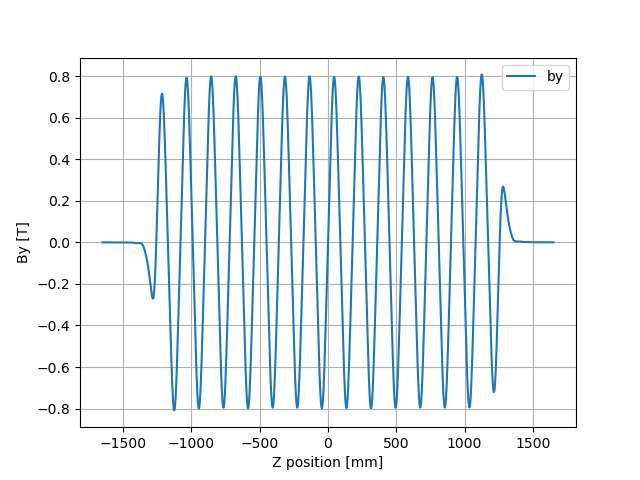
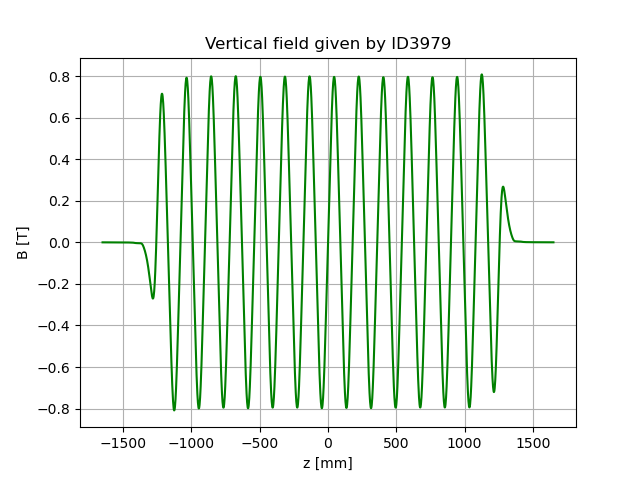
update traj runge kutta and utils

diff --git a/scripts/wiggler/analysis.py b/scripts/wiggler/analysis.py
@@ -37,12 +37,14 @@ def plot_beta_beating(twiss0, twiss1, twiss2, twiss3, idconfig, plot_flag=True):
     plt.xlabel('spos [m]')
     plt.ylabel('Beta Beat [%]')
     plt.title(title)
-    plt.suptitle('Orbit with local correction + SOFB - not symmetrized optics')
-    # plt.suptitle('Orbit with local correction - not symmetrized optics')
-    # plt.suptitle('Orbit without correction - not symmetrized optics')
+    suptitle = 'Orbit with local correction + SOFB - not symmetrized optics'
+    # suptitle = 'Orbit with local correction - not symmetrized optics'
+    # suptitle = 'Orbit without correction - not symmetrized optics'
+    plt.suptitle(suptitle)
+    plt.ylim(-15,15)
     plt.legend()
     plt.grid()
-    plt.savefig('results/' + idconfig + '/orb_SOFB_correction.png')
+    plt.savefig('results/' + idconfig + '/' + suptitle + '_' + idconfig + '.png',dpi=300)
 
     #Compare optics between nominal value and symmetrized optics
     dtunex, dtuney, bbeatx, bbeaty, bbeatx_rms, bbeaty_rms, bbeatx_absmax, bbeaty_absmax = calc_dtune_betabeat(twiss0,twiss2)
@@ -85,9 +87,10 @@ def plot_beta_beating(twiss0, twiss1, twiss2, twiss3, idconfig, plot_flag=True):
     plt.ylabel('Beta Beat [%]')
     plt.title(title)
     plt.suptitle('Symmetrized optics and correct tunes')
+    plt.ylim(-15,15)
     plt.legend()
     plt.grid()
-    plt.savefig('results/' + idconfig + '/full_correction.png')
+    plt.savefig('results/' + idconfig + '/full_correction.png', dpi=300)
     plt.show()
 
 def calc_dtune_betabeat(twiss0, twiss1):
@@ -149,7 +152,7 @@ def run(idconfig):
     # correct orbit locally with ID correctors
     print('--- local orbit correction ---')
     ret = orbcorr.correct_orbit_local(
-        model1=ring1, id_famname='WIG180', correction_plane='x', plot=True)
+        model1=ring1, id_famname='WIG180', correction_plane='x', plot=False)
     dkickx1, dkickx2, dkicky1, dkicky2 =  ret[0]
     fmts = 'correctors dk {:<10s} : {:+06.1f} {:+06.1f} urad'
     print(fmts.format('horizontal', dkickx1*1e6, dkickx2*1e6))

diff --git a/scripts/ivu/ivu_width_height.py b/scripts/ivu/ivu_width_height.py
@@ -36,6 +36,7 @@ def generate_model(width=None, height=None, p_width=None, p_height= None, period
     ivu = Hybrid(gap=gap,period_length=period_length, mr=br, nr_periods=5,
                  pole_length = 'default', longitudinal_distance = 0.1,
                  block_shape=block_shape, pole_shape=pole_shape)
+    
     ivu.solve()
     return ivu,br
 
@@ -76,9 +77,9 @@ def generate_field_file(block_width, block_height, period, gap, filename):
     
 def run(prop_w,op=None):
     """."""
-    name = 'Beff1_'+ op + '_' + str(prop_w*100) + '%.txt'
-    period = 29
-    gap = 10.9
+    name = 'Beff_'+ op + '_' + str(prop_w*100) + '%.txt'
+    period = 17.7
+    gap = 4.2
 
     b_dict = dict()
     roff_dict = dict()
@@ -112,9 +113,12 @@ def run(prop_w,op=None):
     
 if __name__ == "__main__":
     
-    run(prop_w=0.7,op='op1')
-    run(prop_w=0.7,op='op2')
-    run(prop_w=0.7,op='op3')
+    run(prop_w=0.8,op='op1')
+    run(prop_w=0.8,op='op2')
+    run(prop_w=0.8,op='op3')
+    run(prop_w=0.9,op='op1')
+    run(prop_w=0.9,op='op2')
+    run(prop_w=0.9,op='op3')
 
 
     

diff --git a/scripts/wiggler/utils.py b/scripts/wiggler/utils.py
@@ -41,8 +41,8 @@ WIGGLER_CONFIGS = {
     'ID3987': 'gap 023.95mm/2022-08-26_WigglerSTI_023.95mm_U+0.00_D-0.00_Fieldmap_Z=-1650_1650mm_ID=3987.dat',
     'ID4002': 'gap 023.95mm/2022-08-26_WigglerSTI_023.95mm_U-4.15_D+4.29_Fieldmap_Z=-1650_1650mm_ID=4002.dat',
     # wiggler with correctors - gap 026.90mm
-    'ID3987': 'gap 026.90mm/2022-08-26_WigglerSTI_023.95mm_U+0.00_D-0.00_Fieldmap_Z=-1650_1650mm_ID=3987.dat',
-    'ID4002': 'gap 026.90mm/2022-08-26_WigglerSTI_023.95mm_U-4.15_D+4.29_Fieldmap_Z=-1650_1650mm_ID=4002.dat',
+    'ID3988': 'gap 026.90mm/2022-08-26_WigglerSTI_026.90mm_U+0.00_D-0.00_Fieldmap_Z=-1650_1650mm_ID=3988.dat',
+    'ID4001': 'gap 026.90mm/2022-08-26_WigglerSTI_026.90mm_U-3.94_D+3.49_Fieldmap_Z=-1650_1650mm_ID=4001.dat',
     # wiggler with correctors - gap 034.80mm
     'ID3989': 'gap 034.80mm/2022-08-26_WigglerSTI_034.80mm_U+0.00_D-0.00_Fieldmap_Z=-1650_1650mm_ID=3989.dat',
     'ID4000': 'gap 034.80mm/2022-08-26_WigglerSTI_034.80mm_U-2.73_D+2.35_Fieldmap_Z=-1650_1650mm_ID=4000.dat',

diff --git a/scripts/wiggler/trajectory_runge_kutta.py b/scripts/wiggler/trajectory_runge_kutta.py
@@ -27,7 +27,17 @@ def run(idconfig, plot=True):
 
     deltarx = traj.rx[-1] - traj.rx[0]
     deltary = traj.ry[-1] - traj.ry[0]
+    by = fmap.by[fmap.ry_zero][fmap.rx_zero][:]
+
     if plot:
+        plt.plot(fmap.rz, by, color='g')
+        plt.xlabel('z [mm]')
+        plt.ylabel('B [T]')
+        plt.grid()
+        plt.title('Vertical field given by {}'.format(idconfig))
+        plt.savefig('results/' + idconfig + '/field-by-' + idconfig + '.png')
+        plt.show()
+
         labelx = 'rx, delta: {:+.1f} um'.format(deltarx)
         labely = 'ry, delta: {:+.1f} um'.format(deltary)
         plt.plot(traj.rz, 1e3*traj.rx, label=labelx, color='C1')
@@ -60,5 +70,5 @@ def run(idconfig, plot=True):
 
 if __name__ == "__main__":
     """."""
-    deltarx, deltary, deltapx, deltapy = run('ID4020', plot=True)
+    deltarx, deltary, deltapx, deltapy = run('ID3979', plot=True)
 
